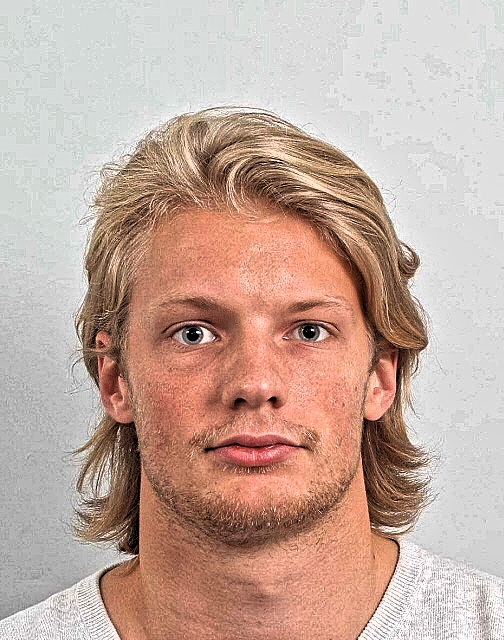
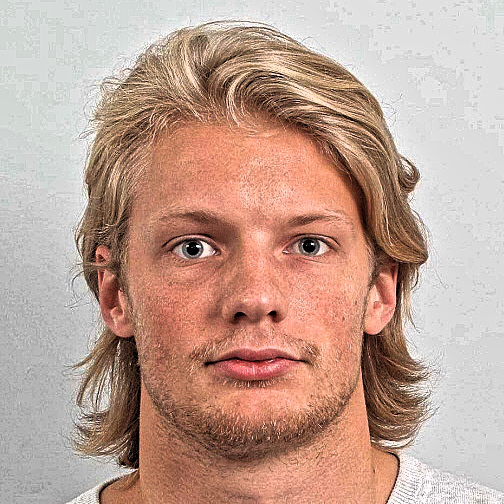
ensure heads aren't deformed/stretched
team images are assumed to be square: if they're not, it has some
unflattering consequences

diff --git a/_includes/team.html b/_includes/team.html
@@ -1,6 +1,6 @@
 <ul class="team">
 	<li>
-		<img src="{{ 'assets/team/gkunst.png' | relative_url }}">
+		<img src="{{ 'assets/team/gkunst.jpg' | relative_url }}">
 		<h3>Gerben Kunst</h3>
 		<p>
 			CTO
